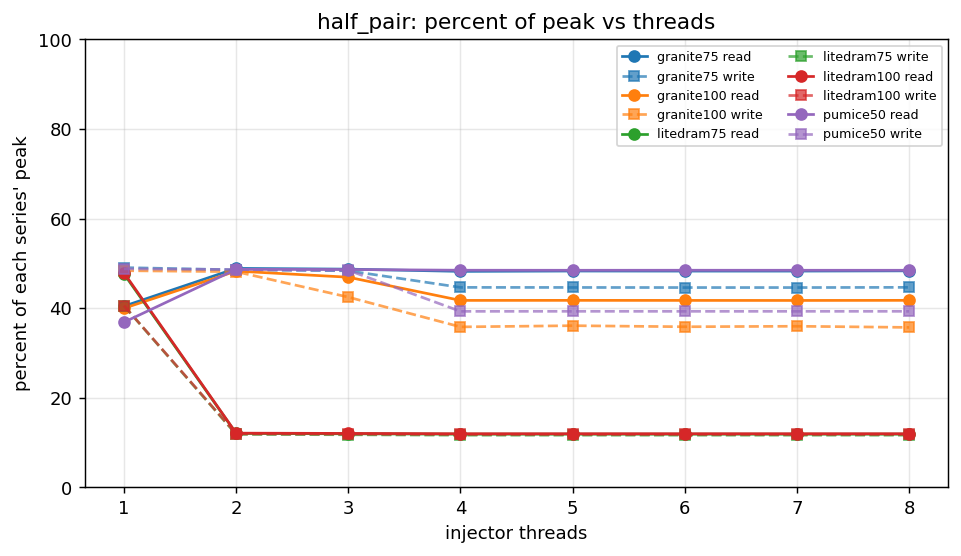
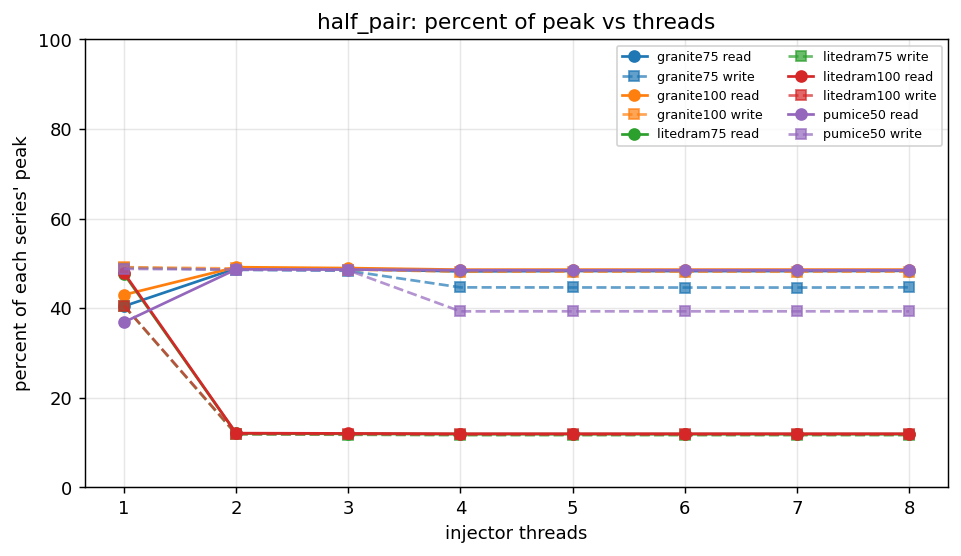
data(granite): 100 MHz board sweep at power-on (hybrid) with tRTP 1; sweep report, graphs, TASK-003 log
Bitstream ddr2_char_granite_100mhz_fair_2026-10-31.bit (5cba2827b), host at
34424b41e. defaults (power-on hybrid) / fixed_open_tr2 / open_page, every
profile: 180 cells, 0 failed, 0 mismatched. Against LiteDRAM 100 MHz on the
60 shared cells: 42 win, 18 tie, 0 lose (was 42 / 15 / 3); col_major reads
480 -> 520 (LiteDRAM 518).

Sweep report: a 2026-10-31 update section at the top; the 2026-10-29
100 MHz and page-policy sections marked superseded. Graphs re-rendered with
granite100 = this sweep. TASK-003 log: the merge-default closure and the
accepted timing-CSR exception, the power-on / BUG-003 / AP-accounting
checks, the hybrid, read/write fairness, the hybrid as power-on, tRTP.

diff --git a/vault/tracking/projects/components/mem-ctrl-ip/product-ip/granite-ddr2-lpddr2/task/active/TASK-003.md b/vault/tracking/projects/components/mem-ctrl-ip/product-ip/granite-ddr2-lpddr2/task/active/TASK-003.md
@@ -1090,3 +1090,149 @@ merge-off RTL; the combiner's worst is the held AW's address match into the
 bank-queue count, -0.24, registers only. Next: placer directives on this
 RTL; then, if needed, a registered AW match (a second AW stage with
 forwarding from the AW allocated in the previous cycle).
+
+### 2026-10-30 / 31, merge default closed at 100 MHz; the timing-CSR exception accepted
+
+The merge default reached 100 MHz in two more steps after the table above:
+the FIFO store registers the held AW's address / id / drain-id compares
+(531273ad1, no added latency, merge rate unchanged), and the static JEDEC
+timing CSRs are false-pathed like `bank_lsb` (d30055b2b; `TIMINGS_RTP_RTW.tRTP`
+into the bank timers was 9 of the last 24 failing paths). Board sweeps at
+531273ad1: 100 MHz WNS 0.000 (ExtraNetDelay_high), 75 MHz +0.652, every
+profile 0 failed and 0 mismatched (6bebf1784). **The owner accepted the
+exception on 2026-10-31**; the XDC records the contract it relies on (a
+`TIMINGS_*` write lands only with the controller idle).
+
+Closure method for every 100 MHz bitstream since: the placer-directive loop
+(ExtraNetDelay_high, AltSpreadLogic_high, ExtraPostPlacementOpt); if none
+closes, a post-route pass on the closest checkpoint (phys_opt
+AggressiveFanoutOpt / AlternateFlowWithRetiming / AggressiveExplore, then
+route NoTimingRelaxation). Every miss it was used on was the pick's own tail
+(`r_hold` / `r_stale_pick` -> `r_pick_cls`) at -0.02 to -0.03 ns.
+
+### 2026-10-30, the power-on state measured, BUG-003 re-checked, the AP accounting
+
+1. **The board never measured power-on.** The host's `defaults` preset wrote
+   policy_mode 0 / tr_init 0 (open page with the drain AP), while the RDL
+   resets to 3 / 2. `defaults` now programs the paging fields from the
+   controller's own regmap (`Pumice.field_default`), and is in every sweep
+   profile.
+2. **Pumice BUG-003 does not reproduce on granite.** The char proxy now
+   checks bank-state legality at the DRAM model (column to a closed bank, ACT
+   on an open one, REF with a row open, AP on an idle bank; the model's
+   timing counters are in the wrong clock and are not used). Power-on paging,
+   read gaps 0 / 8 / 15, TR 1 and 2, four threads: zero violations.
+3. **The AP accounting gap was one cycle, not two, and it was not in the
+   bank timers.** The pick's stage-1 decode saw an auto-precharging bank as
+   an open row, so a different-row candidate requested PRE (never granted
+   while AP is pending) until the row image cleared. It now requests the ACT
+   on the timer's existing `LA_AP` lookahead (b87374275). Last column to next
+   ACT: 5 / 7 -> 4 / 6 cycles after a read / write, equal to the explicit-PRE
+   path; proxy col_major 288/323 -> 306/350 MB/s. Board 100 MHz: 229 cells,
+   0 mismatched (21b063453).
+
+### 2026-10-30, mode 4 rebuilt as the hybrid
+
+Owner: "a hybrid page mode to limit the bad from not closing pages, but keep
+most of the good from the current page mode." The first mode 4 (above) was
+identical to open page because the drain AP closes every row whose queue
+runs dry. That close lumps two cases: a different row already queued behind
+the column (closing is free; open page's bank-hop win) and a queue that just
+ran dry (closing costs a re-ACT when a late same-row request arrives;
+fixed_open's multi-thread win). Mode 4 now auto-precharges on the first, and
+on the second only where the page policy's per-bank close history
+(`drain_close_ok`) allows; the idle timeout closes the rest (5334846f1).
+A queue-only version (no history) measured equal to fixed_open everywhere.
+
+Board 100 MHz (90f0d5e67): within 1 percent of the best granite mode on 56
+of 60 LiteDRAM-comparable cells (power-on fixed_open 51, open page 44). The
+one real loss was concurrent read+write col_major, 145 MB/s against 223.
+
+### 2026-10-30 / 31, read/write fairness: three defects
+
+Owner: "How is 166/356 ok? It shouldn't be asymmetric." Concurrent
+read+write on one bank was asymmetric under fixed_open and slow under the
+drain AP and the hybrid (109/110 on the proxy). Three defects, found with
+the DRAM command trace and a pick-state probe on the proxy (e23ff748a):
+
+1. `granite_top_geared` tied `sched_wr_batch_max_i` to 0 (no cap) while the
+   RDL field read 16, so a direction with work never yielded. It is now
+   `GRANITE_DIR_BATCH_MAX` (granite_pkg), and the RDL reset reads the same.
+2. The cap flip never held: the column picked the cycle before the flip
+   fired the cycle after and the direction register took it as a turn back.
+   `r_cap_flip` ignores that one fire.
+3. Row commands had no direction preference: after an AP close both
+   directions' heads want the bank's ACT, the rotor alternated, and the bus
+   turned around on every row. Row commands now prefer the current direction
+   until the cap, then the other; the short-hop hint yields at the cap.
+
+Cap swept 64 / 128 / 255 on the proxy; 255 kept (the field maximum). Proxy
+75 MHz: concurrent col_major 109/110 -> 163/174; conc_banks 571 -> 549 and
+conc_rows 564 -> 549 total (those totals came from never yielding: the
+writer had a column ready in 151 of 153 read cycles). At 100 MHz the
+row-preference test and the batch-done compare sat in the pick's
+stale -> select loop (-0.58 ns); both now read registers (5cba2827b,
+cycle-exact).
+
+Board 100 MHz (c8196ad44, WNS +0.006 / WHS +0.022), 180 cells, 0 mismatched,
+MB/s average of write and read, peak 800:
+
+| pattern | hybrid before | hybrid after (wr / rd) | LiteDRAM |
+|---|---|---|---|
+| concurrent col_major | 145 | **219** (219 / 219) | 167 |
+| concurrent col_major_interleaved | 267 | 269 (269 / 269) | 164 |
+| concurrent incremental | 380 | 367 (367 / 367) | 167 |
+| concurrent row_major | 386 | 370 (370 / 370) | 192 |
+| 1 writer + 2 readers, col_major | 164 | **226** (150 / 301) | 189 |
+| 1 writer + 2 readers, col_major_interleaved | 193 | 178 (119 / 238) | 165 |
+| half_oct, 4 threads | 380 | 380 | 95 |
+
+The 1 writer + 2 reader rows are 1:2 by construction. Hybrid within 1
+percent of the best granite mode on 59 of 60 (the miss: col_major_interleaved
+at 16-beat bursts, 704 against open page's 730); against LiteDRAM 42 win,
+15 tie, 3 lose.
+
+### 2026-10-31, the hybrid is the power-on page mode
+
+`PAGE_POLICY_CFG.policy_mode` resets to 4 (was 3), `tr_init` stays 2: the
+board numbers above are exactly that configuration (`hybrid_tr2`). Pumice
+keeps 3. A `defaults` column in a granite CSV before 2026-10-31 is
+fixed_open; from 2026-10-31 on it is the hybrid. The bitstreams built before
+this commit still reset to 3 until rebuilt; the host's `defaults` preset
+writes the regmap's reset, so it programs 4 on them too.
+
+### 2026-10-31, the last LiteDRAM lead: tRTP was derived one cycle long
+
+The three cells LiteDRAM still led were one-bank column walks, all on the
+read side (100 MHz, 8-beat: 480 against 518; 4-beat 347 / 388; writes
+already ahead). The proxy's DRAM trace of col_major reads: 8 data cycles
+per row, then 4 cycles from the auto-precharge read to the next ACT and 2
+to the first read, 13 cycles per row (358 MB/s at 75 MHz, as on the board).
+
+JEDEC for that close is RD + (BL/2 + max(tRTP, 2) - 2) + tRP = 2 + 3 = 5 CK,
+3 MC cycles at 1:2, at 75 and at 100 MHz. The bank timer adds the tRTP and
+tRP fields exactly; the extra cycle was in the host derivation, which
+converted tRTP from 7.5 ns with the DFI phase margin (2 MC cycles) although
+the read-to-precharge distance is a 2 CK quantity between commands whose
+phases are known: the formatter puts a RD on `rd_phase` (0 on this board)
+and PRE / ACT on phase 0. `ddr2_timings_mc_cycles` now derives tRTP as
+`ceil((AL + BL/2 + max(tRTP_ck, 2) - 2 + rd_phase) / ck_per_mc)`, 1 at
+rd_phase 0 and 2 at rd_phase 1, and `set_jedec_timings` reads the phase the
+controller is programmed with (unknown -> the worst phase). An explicit PRE
+lands exactly on the JEDEC edge, an AP read's ACT one CK inside it.
+
+Proxy 75 MHz: col_major reads 357.7 -> 383.3 (RD(AP) -> ACT 3 cycles on
+253 of 257 rows), everything else unchanged, 0 mismatched, zero bank-state
+violations. The pumice proxy, whose DRAM model is anchored in MC cycles
+(ISSUE-023), reports zero JEDEC violations at tRTP 1 and at 2 (col_major
+reads 353 -> 355; incremental writes 570 -> 563, a 1 percent shift in a
+read-only change that is not yet explained).
+
+Board 100 MHz, same bitstream (host-side change), power-on hybrid /
+fixed_open / open page, every profile (`char_granite_rtp100_*_2026-10-31`):
+180 cells, 0 failed, 0 mismatched. col_major reads 480 -> 520 (LiteDRAM
+518), 4-beat 347 -> 389 (388), 16-beat 593 -> 623 (621); multigen +5 to +10
+percent; nothing moved down by more than 1 percent. Against LiteDRAM on the
+60 shared cells: **42 win, 18 tie, 0 lose.** What LiteDRAM still does better
+is a single thread's reads (half_pair 1 thread 344 against 383; read
+latency 48 cycles against 25), a latency item, not a row-cycle one.

diff --git a/projects/fpga-systems/NexysA7/mem-ctrl-ip-ddr2/ddr2-characterization/char_results/sweep_granite_vs_litedram_2026-10-29.md b/projects/fpga-systems/NexysA7/mem-ctrl-ip-ddr2/ddr2-characterization/char_results/sweep_granite_vs_litedram_2026-10-29.md
@@ -19,6 +19,52 @@ a property of that map, not a measurement failure. `half_burst8` runs on the
 build's four injectors (threads clamped 8 -> 4, as the records say).
 
 
+## Update 2026-10-31: granite at 100 MHz, current design, power-on settings
+
+Supersedes the 100 MHz granite numbers further down (2026-10-29, merge off)
+and the page-policy section at the end. What changed since: the merge
+default closes at 100 MHz; an auto-precharging bank requests its ACT on the
+timer's lookahead; page mode 4 is the hybrid and is the power-on mode;
+read/write direction fairness (batch cap 255); and the host derives tRTP
+from the RD's DFI phase, 1 MC cycle instead of 2 (granite TASK-003 log,
+2026-10-30 / 31). Bitstream `ddr2_char_granite_100mhz_fair_2026-10-31.bit`
+(5cba2827b, WNS +0.006 ns), the tRTP change host-side only. CSVs:
+`char_granite_rtp100_<profile>_2026-10-31.csv`, configs `defaults` (power-on:
+the hybrid, tr_init 2), `fixed_open_tr2` and `open_page`. 180 cells, 0
+failed, 0 mismatched.
+
+Against LiteDRAM 100 MHz on the 60 shared cells (average of write and read,
+within 2 percent = tie): **42 win, 18 tie, 0 lose** at power-on (was 42 / 15
+/ 3). The power-on hybrid is within 1 percent of the best granite mode on
+59 of 60; the exception is col_major_interleaved at 16-beat bursts, 704
+against open page's 731.
+
+MB/s write / read, peak 800:
+
+| pattern | granite 2026-10-29 (open page) | granite power-on (hybrid) | granite fixed_open | granite open page | LiteDRAM |
+|---|---|---|---|---|---|
+| col_major, 4-beat | 259/311 | 283/**389** | 283/389 | 283/389 | 279/388 |
+| col_major, 8-beat | 390/445 | 416/**520** | 416/520 | 416/520 | 409/518 |
+| col_major, 16-beat | 518/565 | 541/**623** | 541/623 | 541/623 | 534/621 |
+| col_major_interleaved | 688/688 | 684/688 | 618/615 | 688/688 | 368/372 |
+| incremental | 772/774 | 771/772 | 769/769 | 772/775 | 746/756 |
+| row_major | 775/777 | 775/778 | 775/778 | 775/778 | 766/776 |
+| row_thrash, 4 threads | 688/688 | 684/688 | 620/619 | 688/688 | 364/368 |
+| random, 4 threads | 627/644 | 628/658 | 599/622 | 635/662 | 383/397 |
+| mixed, 4 threads | 198/199 | 205/202 | 189/188 | 148/148 | 159/159 |
+| half_pair, 1 thread | 387/320 | 393/344 | 393/344 | 393/315 | 324/383 |
+| half_oct, 4 threads | 286/334 | 380/381 | 381/381 | 287/335 | 94/95 |
+| concurrent 1w+1r col_major | 144/144 | **226/226** | 226/226 | 226/226 | 167/167 |
+| concurrent 1w+1r incremental | 380/380 | 368/368 | 368/368 | 369/369 | 167/167 |
+| 1 writer + 2 readers, col_major | 107/213 | 158/316 | 158/316 | 158/316 | 126/252 |
+
+The 1-writer / 2-reader row is 1:2 by construction. The col_major read
+column is the tRTP change: an auto-precharge read paid 4 MC cycles to the
+next ACT where JEDEC needs 5 CK (3 MC), so every read row was one cycle
+long. Where LiteDRAM still leads is a single thread's reads (half_pair 1
+thread: 344 against 383, read latency 48 cycles against 25); granite leads
+on that thread's writes, 393 against 324.
+
 ## Pattern legend (what each name means)
 
 **Families** are what one injector walks. The DRAM is x16, a burst is BL8 =
@@ -71,6 +117,7 @@ Rendered by `build-perf/bin/plot_sweep.py` from the CSVs beside this file,
 in the STREAM characterization style: a line family where the knee has to
 be legible, grouped bars for the side by side, an annotated heatmap for the
 envelope. Each series' peak is the dotted line in its colour.
+Since 2026-10-31 `granite100` is the update at the top (power-on hybrid, tRTP 1); the other series are unchanged.
 
 ![half_pair bandwidth against injector threads](plots/threads_knee_pair.png)
 
@@ -244,6 +291,8 @@ JEDEC windows, not board numbers.
 
 ## 100 MHz: granite (DDR2-400, STORE_MERGE_EN=0) vs LiteDRAM (DDR2-400), peak 800 MB/s
 
+*Superseded for granite by the 2026-10-31 update at the top; kept as the record of the merge-off point.*
+
 The merge default misses timing at 100 MHz by 2.5 ns (TASK-003 log), so
 the 100 MHz granite point is the merge-off build (+0.011 ns). LiteDRAM is
 regenerated at `sys_clk_freq` 100e6 with today's harness (`regen.sh` with
@@ -406,6 +455,8 @@ mismatched on all 132 cells. Open-page preset on pumice and granite.
 | multigen/incremental_bl8 | 73/146 (36%) | 128/257 (43%) | 93/186 (31%) |
 
 ## page policy on granite: the lookahead close is already on, and the untried variant (2026-10-30)
+
+*Superseded: mode 4 was rebuilt as the hybrid on 2026-10-30 and is the power-on mode since 2026-10-31; see the update at the top and the granite TASK-003 log. The bank-timer AP accounting this section points at was one cycle in the pick's decode (fixed) plus one in the host's tRTP (fixed).*
 
 LiteDRAM's policy (open page, auto-precharge when the bank's lookahead
 holds another row) is granite's `CLOSE_ON_DRAIN`, active in every board
